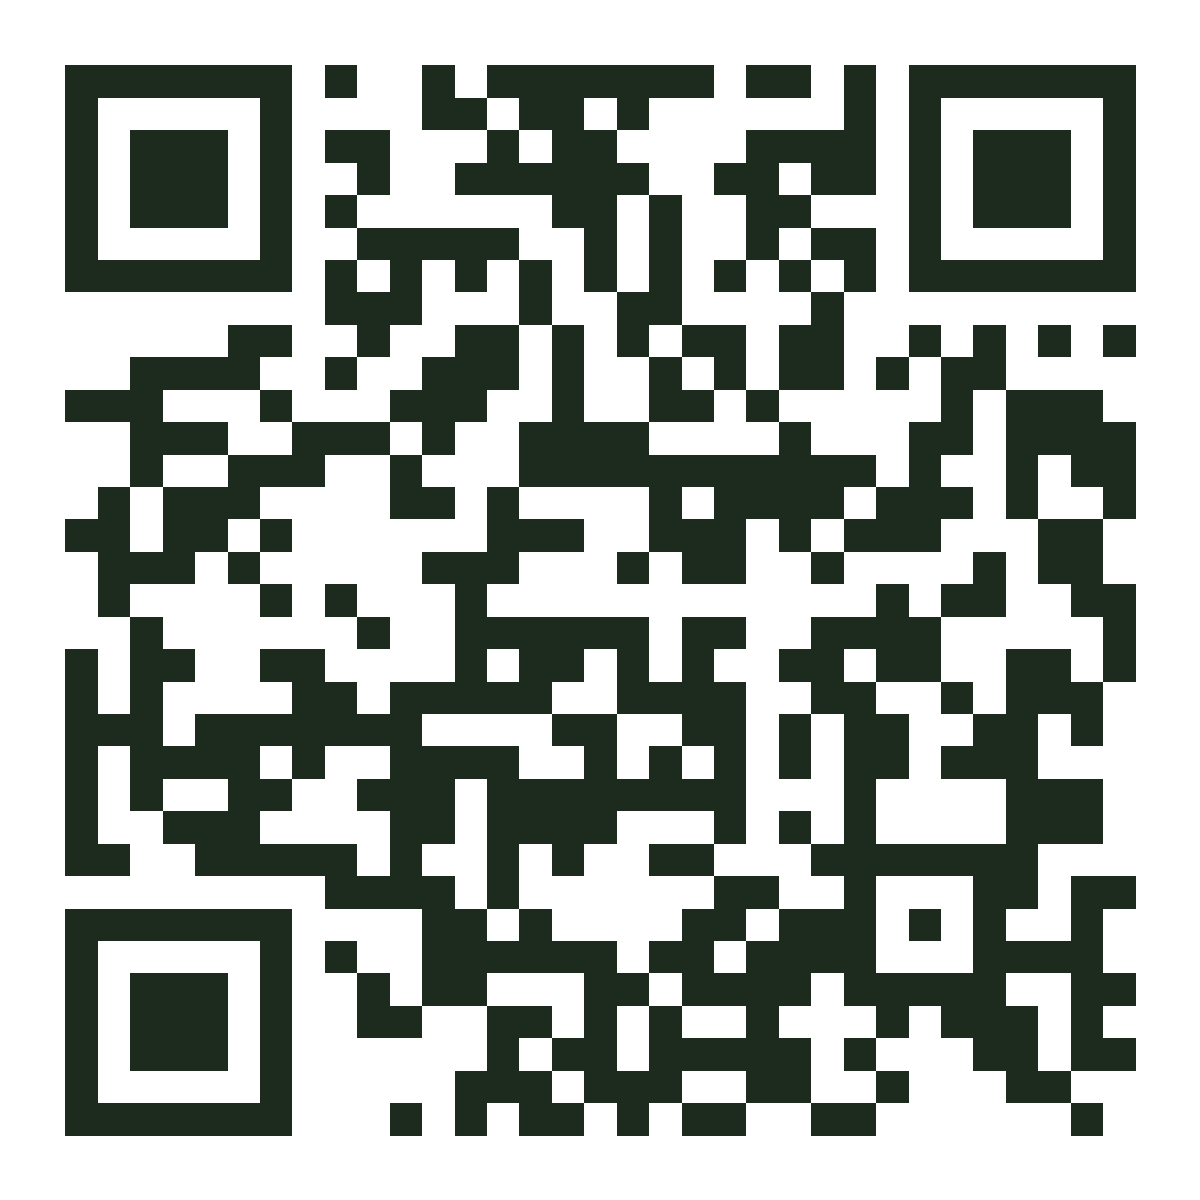
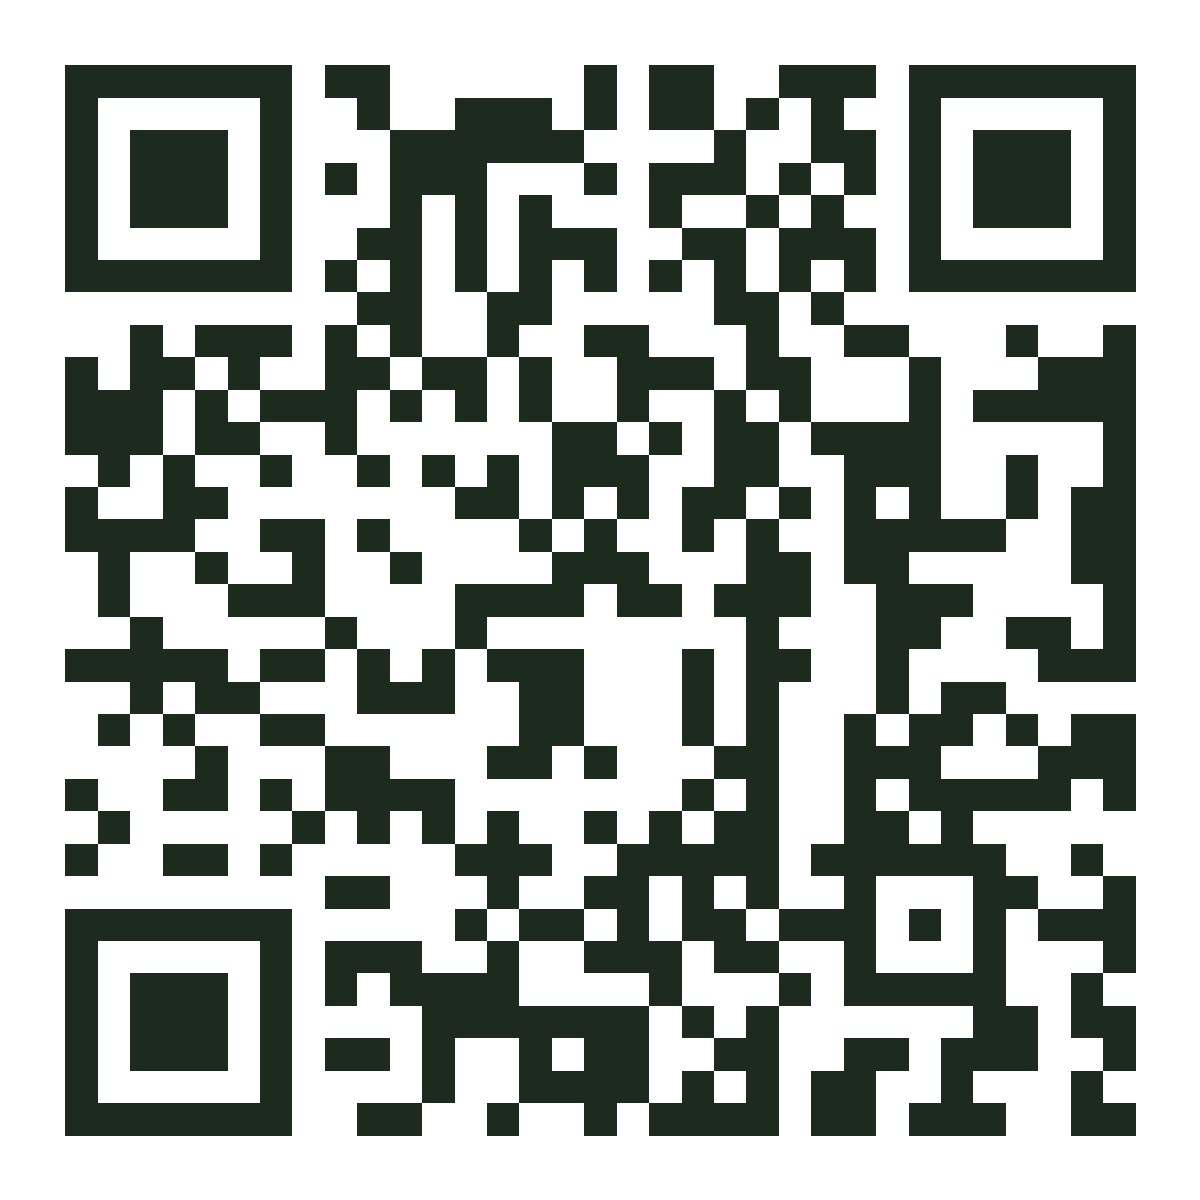
fix: update production domains to smartfarm-pjtau.vercel.app and smartfarming-web.vercel.app with new poster QR codes

diff --git a/generate_qr.js b/generate_qr.js
@@ -2,39 +2,55 @@
 const QRCode = require("qrcode");
 const path = require("path");
 
-const url = process.argv[2] || "https://smart-farm-assistant-hazel.vercel.app";
+const PRIMARY_URL = "https://smartfarm-pjtau.vercel.app";
+const SECONDARY_URL = "https://smartfarming-web.vercel.app";
+
+async function generatePair(url, baseName, label) {
+  console.log(`\nGenerating QR codes for ${label}: ${url}`);
+
+  // 1. High-resolution PNG (1200x1200px, 300dpi equivalent for conference poster prints)
+  const pngPath = path.join(__dirname, `${baseName}.png`);
+  await QRCode.toFile(pngPath, url, {
+    width: 1200,
+    margin: 2,
+    errorCorrectionLevel: "H",
+    color: {
+      dark: "#1d2b1f",  // theme dark green/black
+      light: "#ffffff"
+    }
+  });
+  console.log(` Created: ${baseName}.png (1200x1200px high-res PNG)`);
+
+  // 2. Vector SVG (infinite resolution for Canva / Photoshop / Illustrator)
+  const svgPath = path.join(__dirname, `${baseName}.svg`);
+  await QRCode.toFile(svgPath, url, {
+    type: "svg",
+    margin: 2,
+    errorCorrectionLevel: "H",
+    color: {
+      dark: "#1d2b1f",
+      light: "#ffffff"
+    }
+  });
+  console.log(` Created: ${baseName}.svg (Scalable Vector SVG)`);
+}
 
 async function main() {
-  console.log(`Generating poster QR codes for: ${url}`);
+  const customUrl = process.argv[2];
 
   try {
-    // 1. High-resolution PNG (1200x1200px, 300dpi equivalent for conference poster prints)
-    const pngPath = path.join(__dirname, "poster_qr_code.png");
-    await QRCode.toFile(pngPath, url, {
-      width: 1200,
-      margin: 2,
-      errorCorrectionLevel: "H",
-      color: {
-        dark: "#1d2b1f",  // theme dark green/black
-        light: "#ffffff"
-      }
-    });
-    console.log(" Created: poster_qr_code.png (1200x1200px high-res PNG)");
+    if (customUrl) {
+      await generatePair(customUrl, "poster_qr_code", "Custom URL");
+    } else {
+      // 1. Primary domain (PJTAU conference poster standard)
+      await generatePair(PRIMARY_URL, "poster_qr_code", "Primary Domain (PJTAU)");
+      await generatePair(PRIMARY_URL, "poster_qr_pjtau", "PJTAU Direct Link");
 
-    // 2. Vector SVG (infinite resolution for Canva / Photoshop / Illustrator)
-    const svgPath = path.join(__dirname, "poster_qr_code.svg");
-    await QRCode.toFile(svgPath, url, {
-      type: "svg",
-      margin: 2,
-      errorCorrectionLevel: "H",
-      color: {
-        dark: "#1d2b1f",
-        light: "#ffffff"
-      }
-    });
-    console.log(" Created: poster_qr_code.svg (Scalable Vector SVG)");
+      // 2. Secondary domain (Web portal)
+      await generatePair(SECONDARY_URL, "poster_qr_smartfarming_web", "Alternative Web Domain");
+    }
 
-    console.log("\nDone! Both QR code files are ready in your project directory for your ADSAUF-2047 poster.");
+    console.log("\nDone! Poster QR codes for both domains are ready in your project directory.");
   } catch (err) {
     console.error("Error generating QR code:", err);
     process.exit(1);

diff --git a/src/app/layout.tsx b/src/app/layout.tsx
@@ -15,6 +15,7 @@ export const viewport: Viewport = {
 };
 
 export const metadata: Metadata = {
+  metadataBase: new URL("https://smartfarm-pjtau.vercel.app"),
   title: "Smart Farm Assistant | Telangana Rythu Digital Portal",
   description:
     "AI-powered agronomic advisory, live IoT sensor monitoring, Telangana APMC mandi rates, and PJTAU package of practices for Telangana farmers.",
@@ -24,10 +25,18 @@ export const metadata: Metadata = {
     icon: "/icon.svg",
     apple: "/icon.svg",
   },
+  alternates: {
+    canonical: "https://smartfarm-pjtau.vercel.app",
+    languages: {
+      "en-IN": "https://smartfarm-pjtau.vercel.app",
+      "te-IN": "https://smartfarm-pjtau.vercel.app",
+    },
+  },
   openGraph: {
     title: "Smart Farm Assistant — Telangana Rythu Portal",
     description: "Bilingual digital farming assistant and IoT agronomy portal for Telangana farmers.",
     type: "website",
+    url: "https://smartfarm-pjtau.vercel.app",
     locale: "en_IN",
     alternateLocale: "te_IN",
     siteName: "Smart Farm Assistant",

diff --git a/landing.html b/landing.html
@@ -10,7 +10,7 @@
   <meta property="og:type" content="website">
   <meta property="og:title" content="Smart Farm Assistant — Smart Irrigation & Crop Intelligence">
   <meta property="og:description" content="IoT field control, weather rain-skip, PJTAU fertilizer calculator, AI crop disease diagnosis, and real-time mandi prices for farmers.">
-  <meta property="og:url" content="https://smart-farm-assistant-hazel.vercel.app">
+  <meta property="og:url" content="https://smartfarm-pjtau.vercel.app">
   <meta name="theme-color" content="#1b5e20">
   
   <!-- Favicon -->

diff --git a/src/app/sitemap.ts b/src/app/sitemap.ts
@@ -1,7 +1,7 @@
 import { MetadataRoute } from "next";
 
 export default function sitemap(): MetadataRoute.Sitemap {
-  const baseUrl = "https://smart-farm-assistant.vercel.app";
+  const baseUrl = "https://smartfarm-pjtau.vercel.app";
   const routes = ["", "/advisory", "/iot", "/market", "/tools", "/insights"];
 
   return routes.map((route) => ({

diff --git a/src/app/robots.ts b/src/app/robots.ts
@@ -6,6 +6,6 @@ export default function robots(): MetadataRoute.Robots {
       userAgent: "*",
       allow: "/",
     },
-    sitemap: "https://smart-farm-assistant.vercel.app/sitemap.xml",
+    sitemap: "https://smartfarm-pjtau.vercel.app/sitemap.xml",
   };
 }
